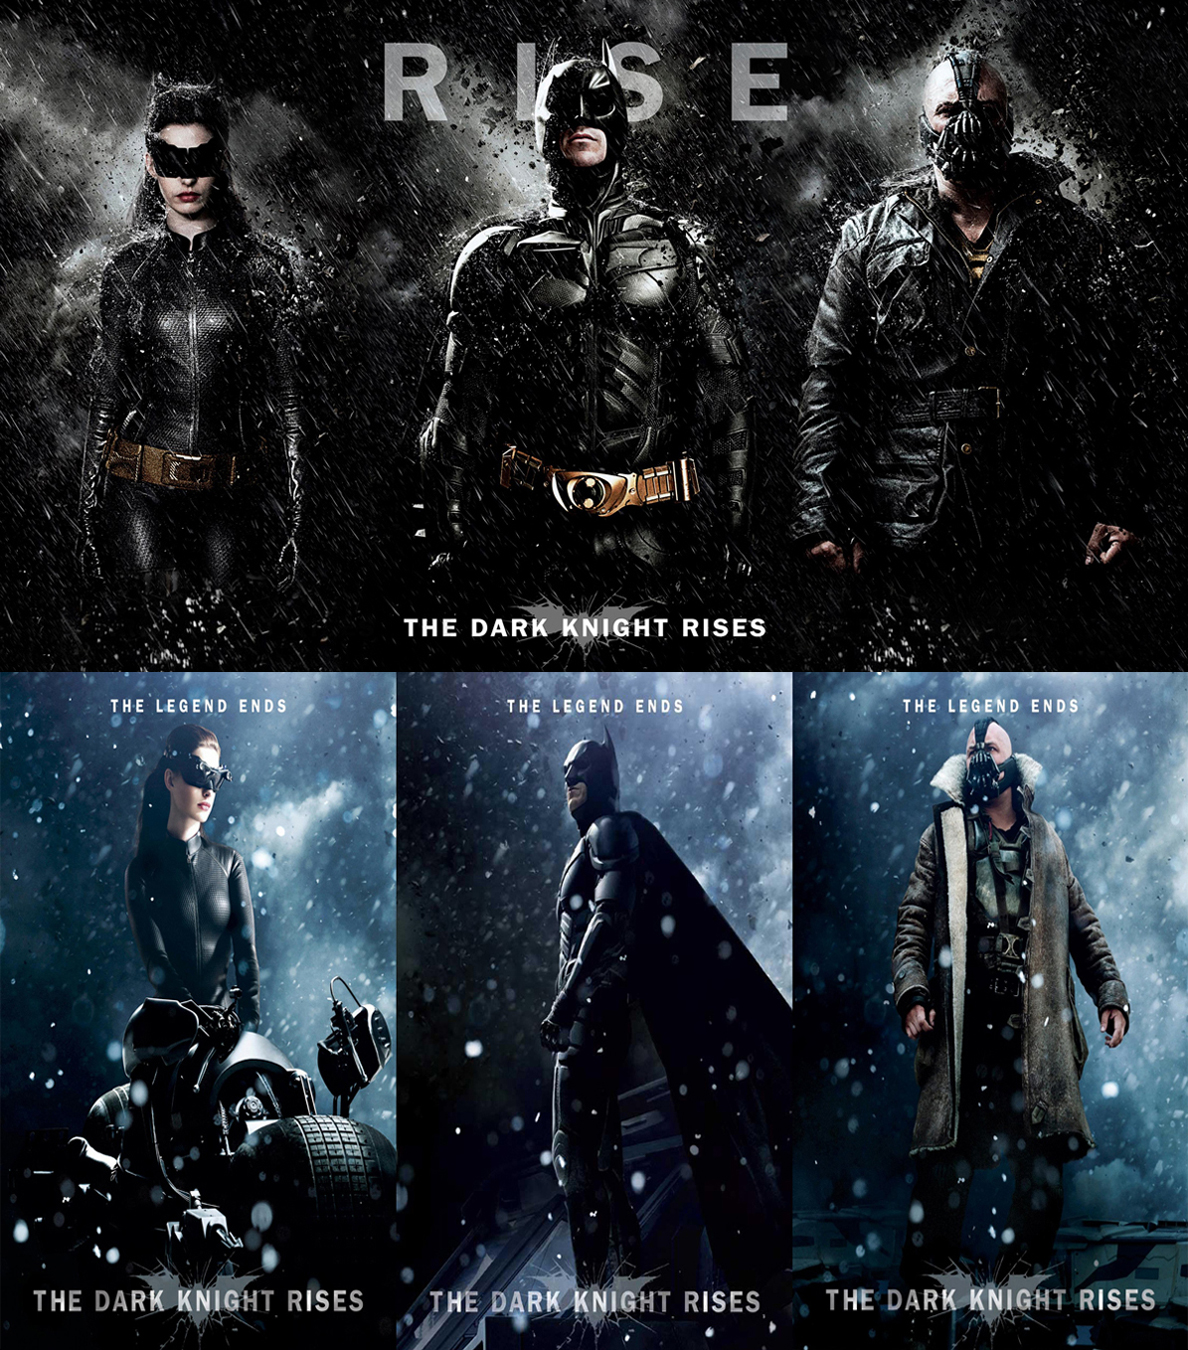
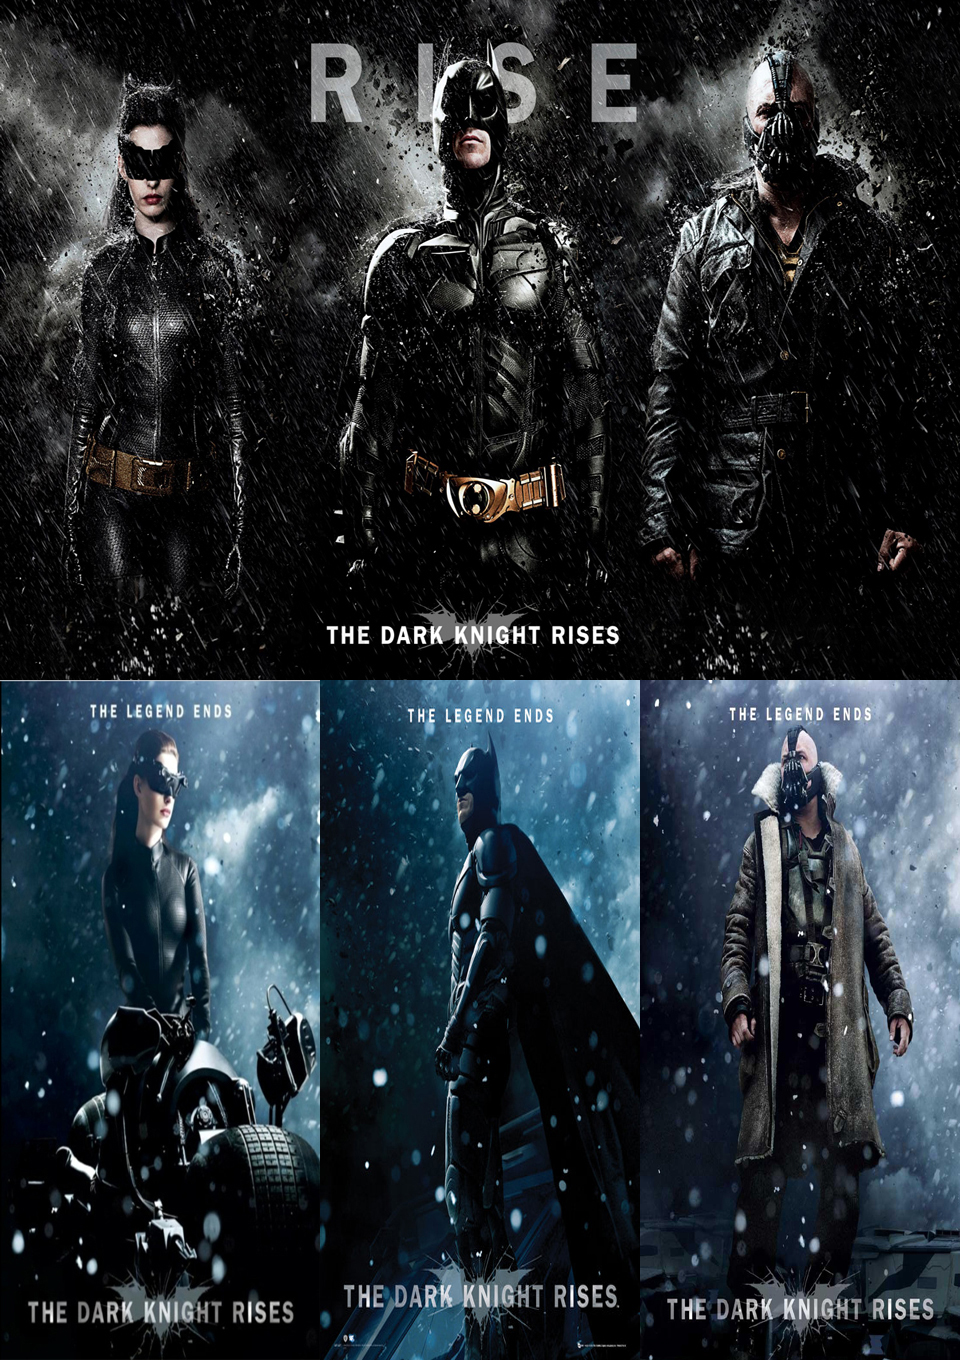
fix bot sld

diff --git a/script/script.js b/script/script.js
@@ -8,10 +8,10 @@ var sld = $('div.train > div');
 	for(i = 0; i<3 ;i ++){
 		sld.eq(i).css({left:i*320+'px'});
 	};
-	sld.css({backgroundImage:"url('images/final-background.jpg')",backgroundRepeat:'no-repeat'});
-	sld.eq(0).css({backgroundPosition:'11.5% 100%'});
-	sld.eq(1).css({backgroundPosition:'47.6% 100%'});
-	sld.eq(2).css({backgroundPosition:'83.8% 100%'});
+	sld.css({backgroundImage:"url('images/final-image.jpg')",backgroundRepeat:'no-repeat'});
+	sld.eq(0).css({backgroundPosition:'0 100%'});
+	sld.eq(1).css({backgroundPosition:'50% 100%'});
+	sld.eq(2).css({backgroundPosition:'100% 100%'});
 ;})()
 
 //Hide|show black window on mouse over
